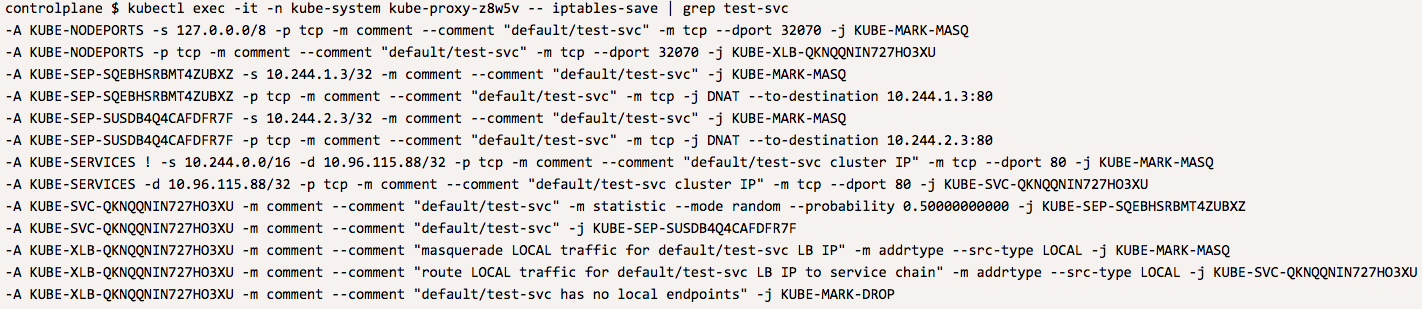
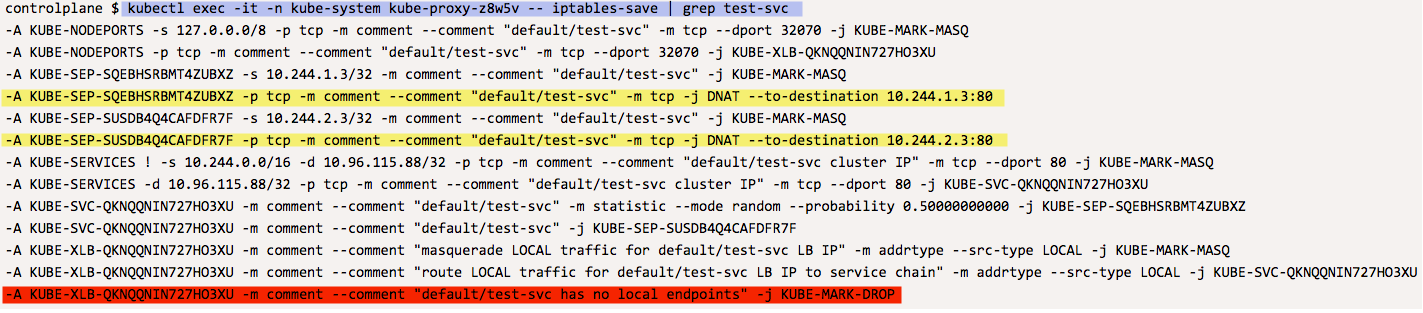
Added kind senario

diff --git a/cka-cluster-with-kind/step2.md b/cka-cluster-with-kind/step2.md
@@ -38,7 +38,7 @@ Now we apply below two YAMLs that will create deployment and service
 
 ### (Optional) View YAML for Deployment and Service
 
-#### Deployment :  
+#### Deployment [[test]]:  
 
 If you see closely this deployment uses **sidecar** container to populate
 NGINX's default *index.html* with text that has Pod's Name and Node's name
@@ -47,13 +47,14 @@ it's running on what Node .
 
 `bat --paging=never deploy.yaml`{{execute}}
 
-#### Service : 
+#### Service [[test-vc]]: 
 
+`bat service.yaml`{{execute}}
+
+![](./assets/note.png)
 Pay close attention to `externalTrafficPolicy: Local` 
 
 ![](./assets/svc-local.png)
-
-`bat service.yaml`{{execute}}
 
 ### Check if all pods are running 
 
@@ -91,22 +92,22 @@ Reply from POD: [test-6d9c9d5b86-nk28k] running on Node: [kind-worker3]
 ```
  
 ![](./assets/note.png)
- ** **NOTE** ** : Now you might think why are we not hitting on Nodes
-IP/Host name and on port 32070 ? This is because we are using Kind and
+** **NOTE** ** : Now you might think why are we not hitting on Nodes
+IP/Host name and on port 32070 ? This is because we are using **Kind** and
 the Nodes are running inside Docker container. So , we can't hit Node's
-port 32070 - inited we have to map that port to local server and we can
+port 32070 - instead we have to map that port to local server and we can
 only hit those ports.
 
 You can see below we have asked kind to do this port mapping for us
-before hand so we don't have to anything now.
+*before* hand so we don't have to anything now.
 
 ![ETCD Leader](./assets/KIND-2-small.png)
 
-### Invoke same end-point on kind-worker node
+### Invoke same end-point on `kind-worker` node
 
-We expect below curl command to fail as - there is no `test` pod running
-on kind-worker node and as test-svc service is suppose to look for LOCAL
-end-point (becuse of *externalTrafficPolicy: Local*) it will fail
+We expect below curl command to **fail** as - there is no local `test` pod running
+on *kind-worker* node and as test-svc service is suppose to look for LOCAL
+end-point (because of *externalTrafficPolicy: Local*) it will fail
 
 Lets call with timeout if end-point is not working it will ***fail*** in 4
 seconds 
@@ -119,3 +120,7 @@ Sample output:
 master $ curl --max-time 4 http://0.0.0.0:32071
 curl: (28) Operation timed out after 4000 milliseconds with 0 bytes received
 ```
+
+So, now we know what is impact of setting `externalTrafficPolicy: Local` on NodePort service. It is very important to
+understand things works before we start using it . On next page we dig little deeper and see what exactly happens when 
+we set *externalTrafficPolicy: Local*

diff --git a/cka-cluster-with-kind/step3.md b/cka-cluster-with-kind/step3.md
@@ -2,15 +2,20 @@ IPTables
 
 ## Check IP-Tables on kind-worker node 
 
-In order to see IP Tables entry in kube-proxy pod running on node kind-worker we need kube-proxy pod's name 
-Let's fine that 
+NodePort uses IPTables created on kube-proxy on each port to do NAT transformation to route/load balance Service traffic  
+That means each Node on cluster has IPTables entries about each service that know what are the possible end-points it can rout traffic to.
 
-We know pod is running on node `kind-worker` and it has label `k8s-app=kube-proxy` attach to it - with that tow info we 
-should be able to get POD name 
+In order to see IP Tables entry in ***kube-proxy*** pod running on node *kind-worker* we need kube-proxy pod's name 
+Let's find that 
+
+We know pod is running on node `kind-worker` and it has label `k8s-app=kube-proxy` attach to it - with that two piece of information we 
+should be able to get POD name using *kubectl*.
 
 `KUBEPROXY_POD_ON_WORKER_NODE=$(kubectl get pods -n kube-system \
 --field-selector=spec.nodeName=kind-worker -l k8s-app=kube-proxy -o name \
 --no-headers)`{{execute}}
+
+Will store output in `KUBEPROXY_POD_ON_WORKER_NODE` for future use
 
 Now using that POD name execute command inside the container and grep for iptables entry to Service `test-svc` 
 
@@ -22,7 +27,12 @@ Sample output:
 
 ![](./assets/iptables-save.png)
 
-From above output you can see that on kind-worker node for service test-svc (in namespace default) there are no local end-points 
+From above output you can see that on `kind-worker` node we do have end-points/IP address registered for PODs running on other two nodes  
+In above sample-output IP address *10.244.1.3* and *10.244.2.3* are IP address of PODs running on other two nodes - so if needed to Service 
+can rout traffic to one of those pods even no local Pods are running on that Node.
+
+But at same time it has entry stating for service **test-svc** (in namespace default) there are no local end-points - and we have configured 
+`test-svc` service with `externalTrafficPolicy: Local`
 
 `
 -A KUBE-XLB-QKNQQNIN727HO3XU -m comment --comment "default/test-svc has no local endpoints" -j KUBE-MARK-DROP
